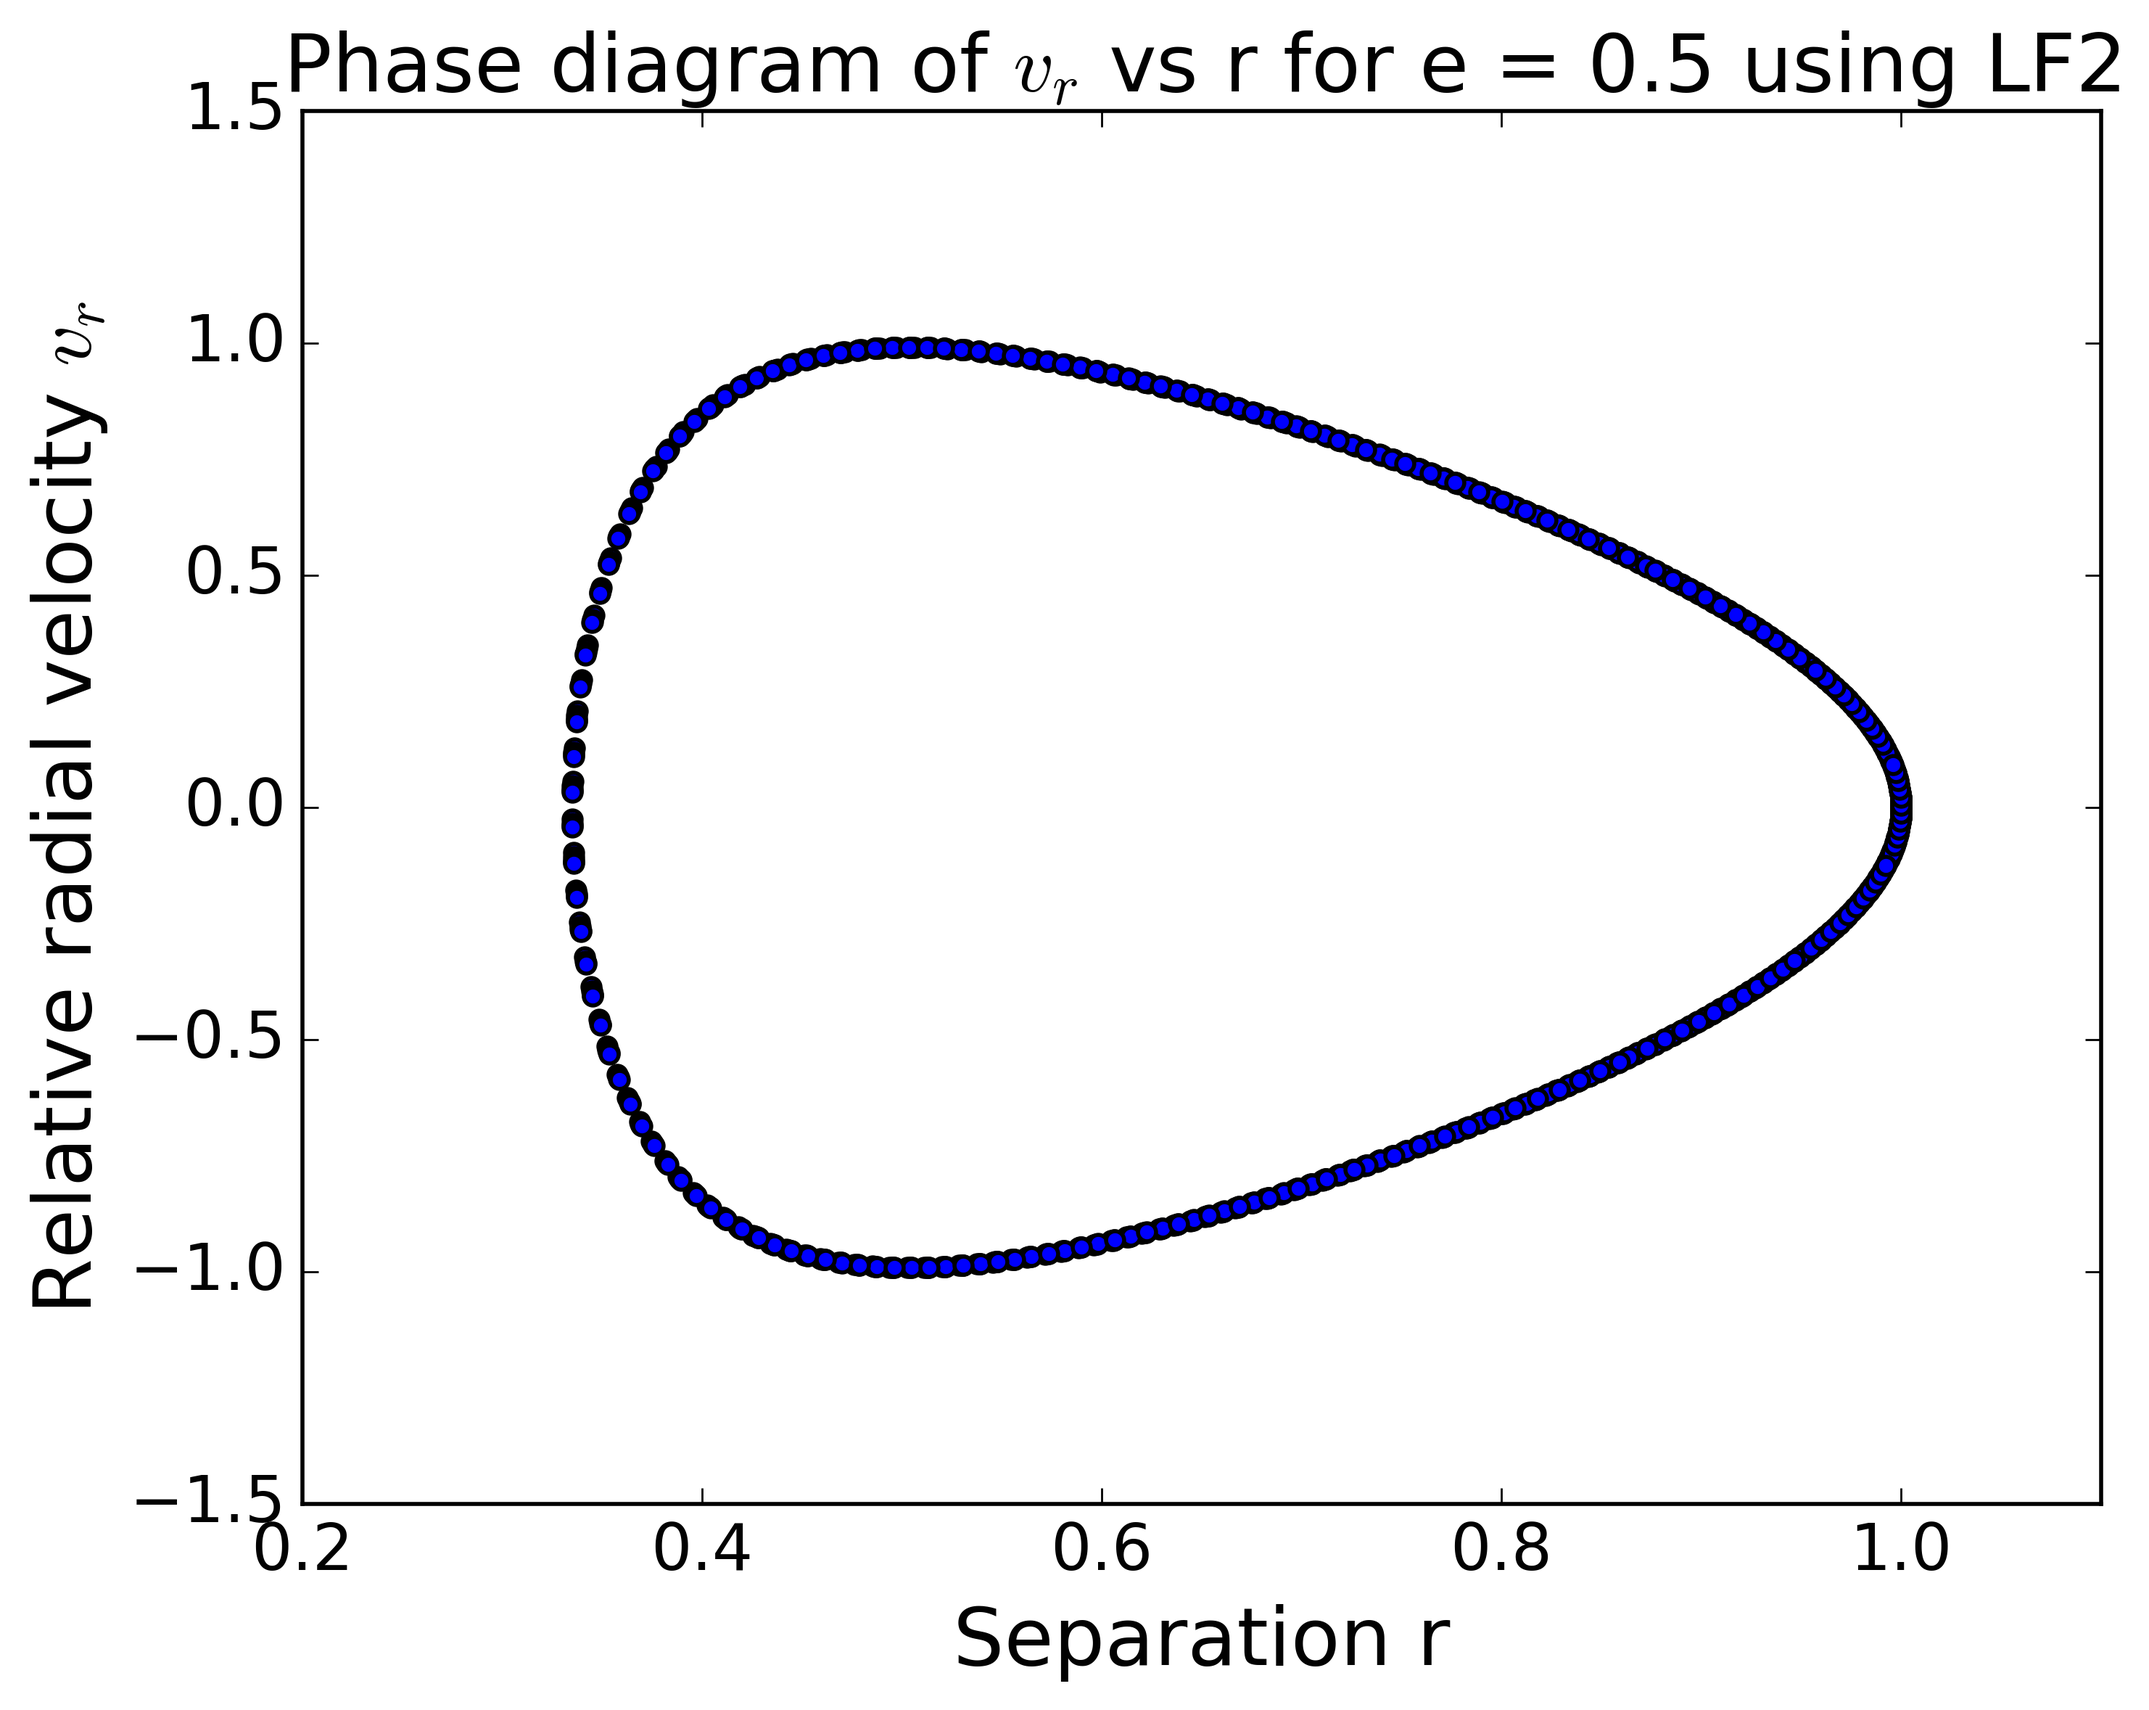
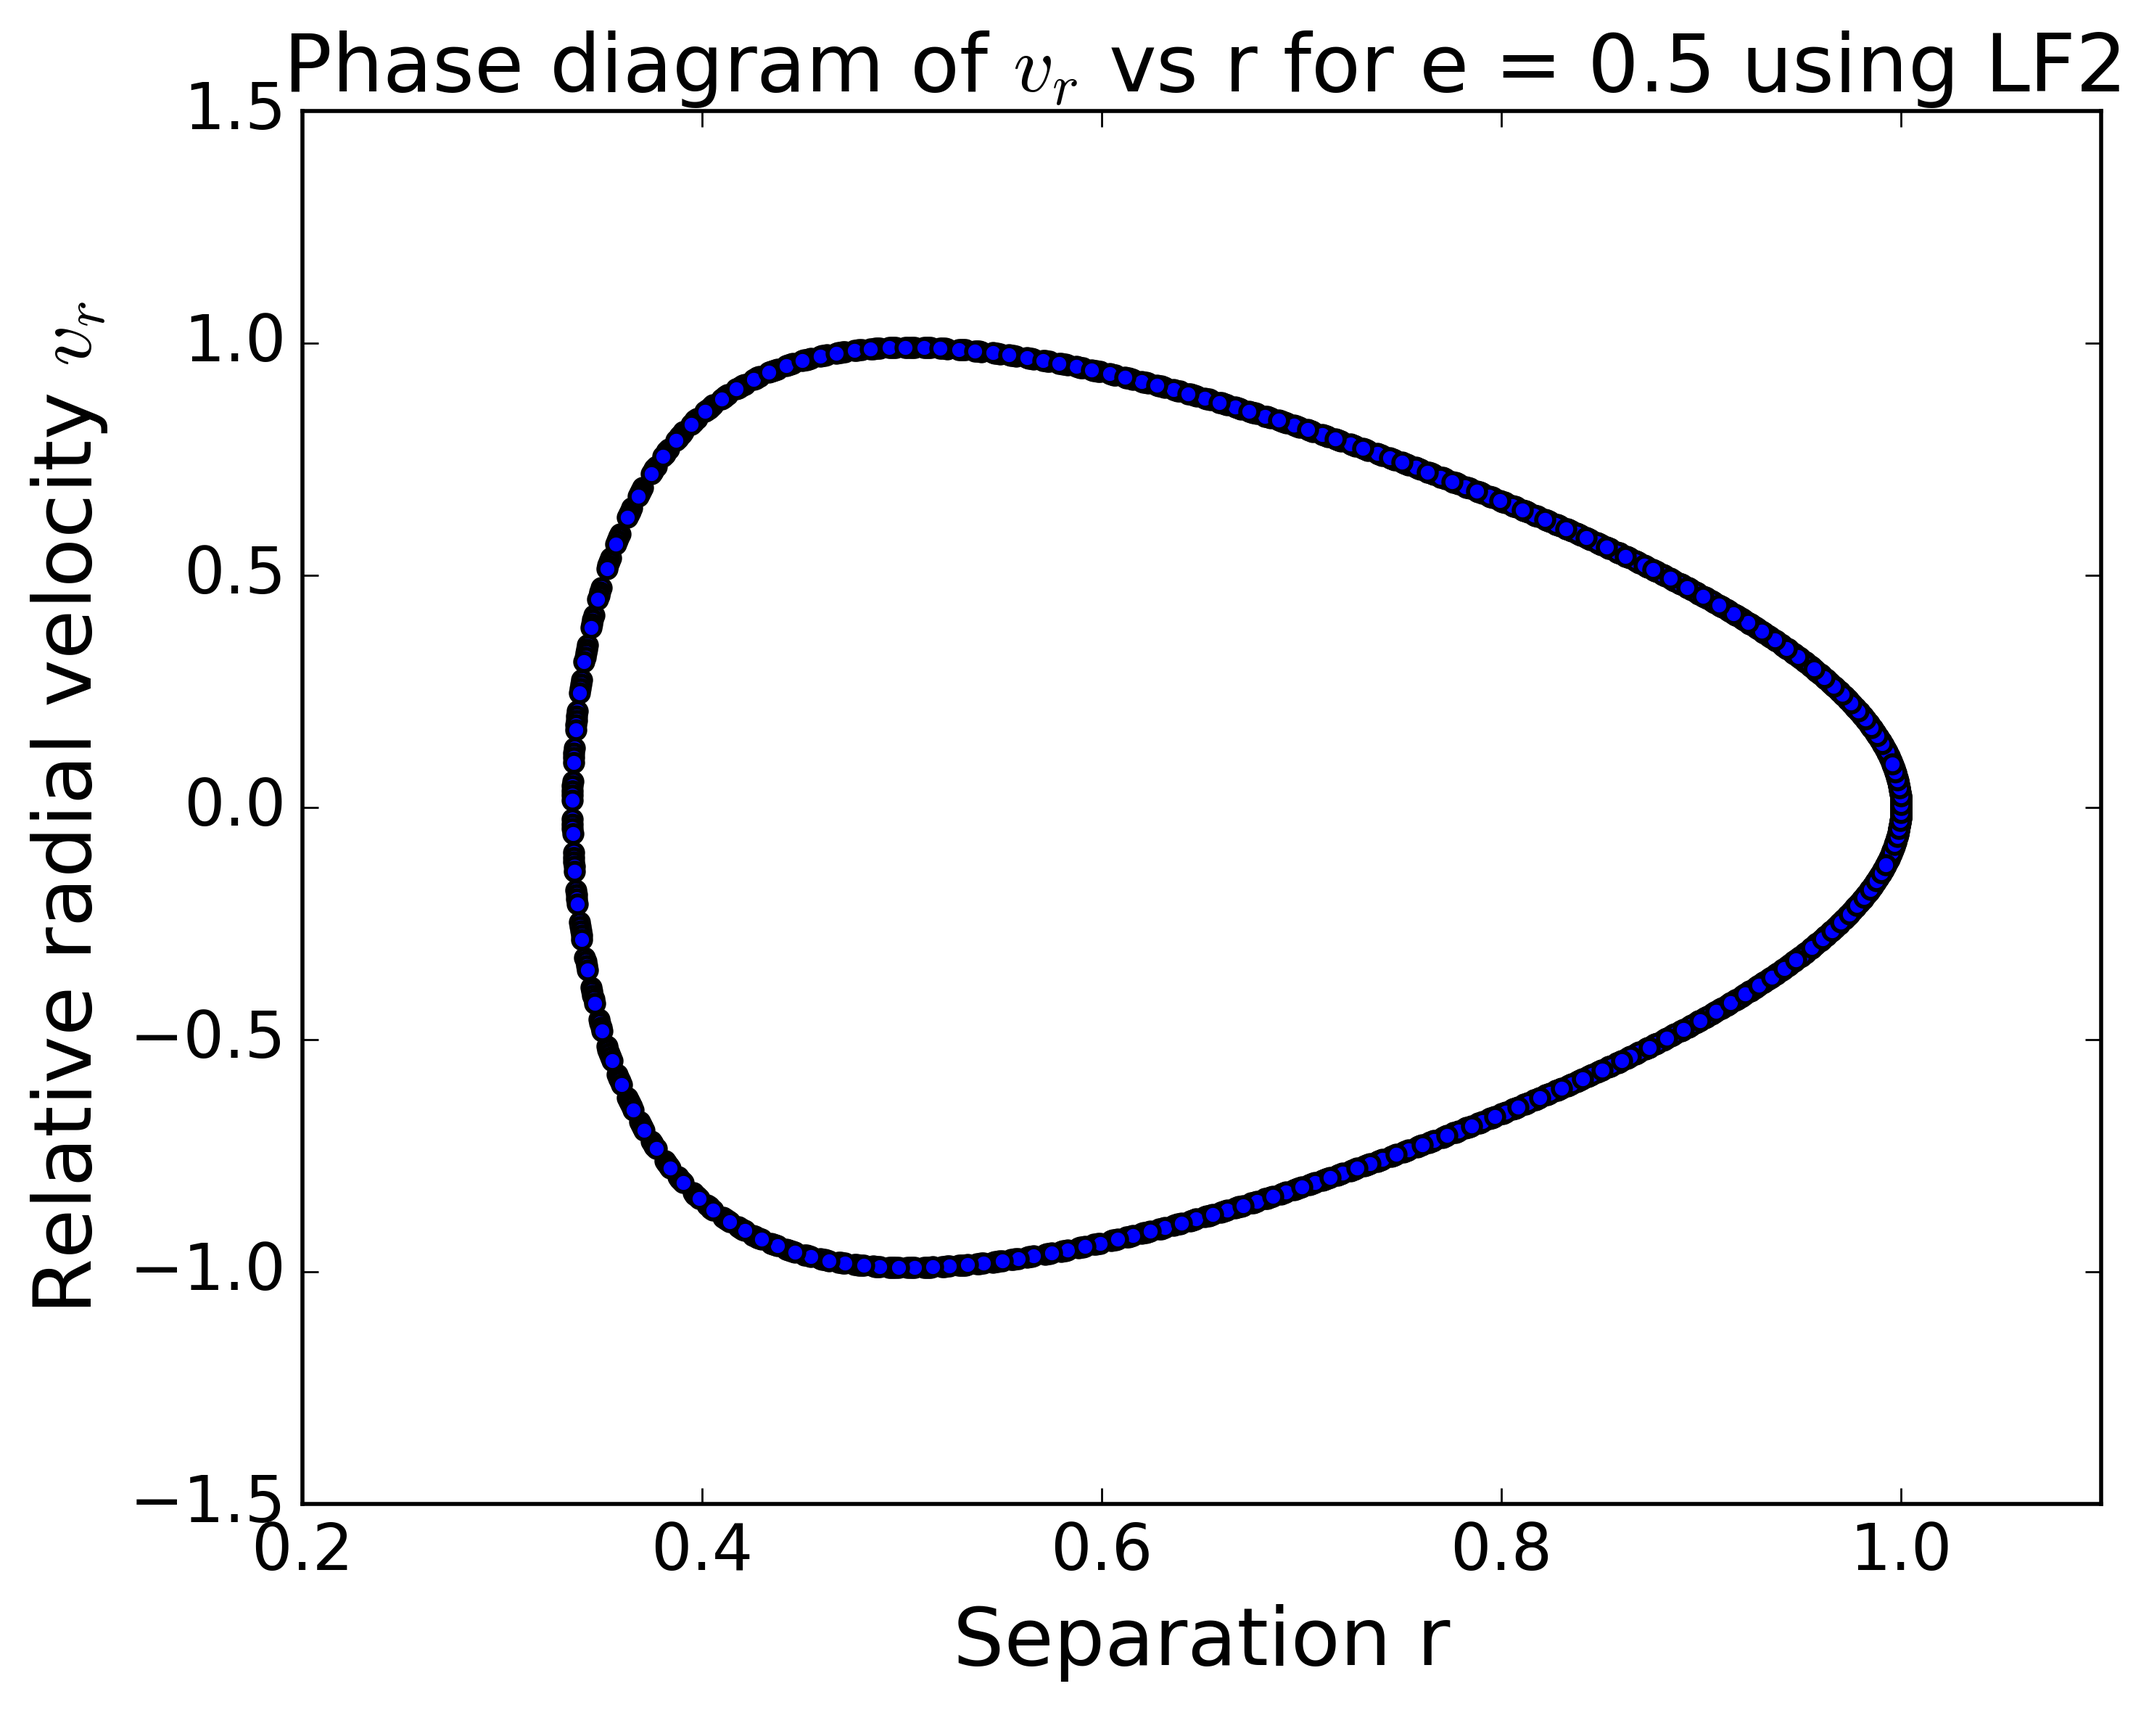
improve LF2 and RK4

diff --git a/pp-nbody/integ_RK4.h b/pp-nbody/integ_RK4.h
@@ -11,60 +11,56 @@ void integ_RK4(double mass[], double position[][DIM], double velocity[][DIM], do
 
     double k1_pos[N][DIM], k2_pos[N][DIM], k3_pos[N][DIM], k4_pos[N][DIM];
     double k1_vel[N][DIM], k2_vel[N][DIM], k3_vel[N][DIM], k4_vel[N][DIM];
-    double position2[N][DIM], position3[N][DIM], position4[N][DIM];
-    double velocity2[N][DIM], velocity3[N][DIM], velocity4[N][DIM];
-    double force2[N][DIM], force3[N][DIM], force4[N][DIM];
+    double pos_0[N][DIM], vel_0[N][DIM];
 
     for(i = 0; i < N; i++)
-    {
         for(k = 0; k < DIM; k++)
         {
+            pos_0[i][k] = position[i][k];
+            vel_0[i][k] = velocity[i][k];
+
             k1_pos[i][k] = step * velocity[i][k];
             k1_vel[i][k] = step * force[i][k] / mass[i];
 
-            position2[i][k] = position[i][k] + k1_pos[i][k] / 2;
-            velocity2[i][k] = velocity[i][k] + k1_vel[i][k] / 2;
+            position[i][k] += k1_pos[i][k] / 2;
+            velocity[i][k] += k1_vel[i][k] / 2;
         }
-    }
 
-    calc_force(mass, position2, force2, N, epsilon); //force at k1
+    calc_force(mass, position, force, N, epsilon); //force at k1
+
     for(i = 0; i < N; i++)
-    {
         for(k = 0; k < DIM; k++)
         {
-            k2_pos[i][k] = step * velocity2[i][k];
-            k2_vel[i][k] = step * force2[i][k] / mass[i];
+            k2_pos[i][k] = step * velocity[i][k];
+            k2_vel[i][k] = step * force[i][k] / mass[i];
 
-            position3[i][k] = position[i][k] + k2_pos[i][k] / 2;
-            velocity3[i][k] = velocity[i][k] + k2_vel[i][k] / 2;
+            position[i][k] = pos_0[i][k] + k2_pos[i][k] / 2;
+            velocity[i][k] = vel_0[i][k] + k2_vel[i][k] / 2;
         }
-    }
 
-    calc_force(mass, position3, force3, N, epsilon); //force at k2
+    calc_force(mass, position, force, N, epsilon); //force at k2
+
     for(i = 0; i < N; i++)
-    {
         for(k = 0; k < DIM; k++)
         {
-            k3_pos[i][k] = step * velocity3[i][k];
-            k3_vel[i][k] = step * force3[i][k]/mass[i];
+            k3_pos[i][k] = step * velocity[i][k];
+            k3_vel[i][k] = step * force[i][k] / mass[i];
 
-            position4[i][k] = position[i][k] + k3_pos[i][k];
-            velocity4[i][k] = velocity[i][k] + k3_vel[i][k];
+            position[i][k] = pos_0[i][k] + k3_pos[i][k];
+            velocity[i][k] = vel_0[i][k] + k3_vel[i][k];
         }
-    }
 
-    calc_force(mass, position4, force4, N, epsilon); //force at k3
+    calc_force(mass, position, force, N, epsilon); //force at k3
+
     for(i = 0; i < N; i++)
-    {
         for(k = 0; k < DIM; k++)
         {
-            k4_pos[i][k] = step * velocity4[i][k];
-            k4_vel[i][k] = step * force4[i][k]/mass[i];
+            k4_pos[i][k] = step * velocity[i][k];
+            k4_vel[i][k] = step * force[i][k] / mass[i];
 
-            position[i][k] +=  k1_pos[i][k] / 6 + k2_pos[i][k] / 3 + k3_pos[i][k] / 3 + k4_pos[i][k] / 6;
-            velocity[i][k] +=  k1_vel[i][k] / 6 + k2_vel[i][k] / 3 + k3_vel[i][k] / 3 + k4_vel[i][k] / 6;
+            position[i][k] = pos_0[i][k] + k1_pos[i][k] / 6 + k2_pos[i][k] / 3 + k3_pos[i][k] / 3 + k4_pos[i][k] / 6;
+            velocity[i][k] = vel_0[i][k] + k1_vel[i][k] / 6 + k2_vel[i][k] / 3 + k3_vel[i][k] / 3 + k4_vel[i][k] / 6;
         }
-    }
 }
 
 #endif

diff --git a/pp-nbody/p1_plots.py b/pp-nbody/p1_plots.py
@@ -41,6 +41,9 @@ energy = 0.5 * v1**2 + 0.5 * v2**2 - 1/r
 E0 = -0.5 * (1 + e)
 frac_energy = (energy - E0) / abs(E0)
 
+#create directory for plots
+if not os.path.exists('./plots_p1/'):
+    os.makedirs('./plots_p1/')
 
 #Orbit Plot
 plt.figure()
@@ -51,7 +54,7 @@ plt.ylabel('y', fontsize = 20)
 plt.xticks(fontsize=16)
 plt.yticks(fontsize=16)
 plt.title('Orbit diagram (x vs. y) for e = '+str(e)+' using '+method, fontsize = 20)
-plt.savefig('p1_plots/'+method+'_e'+str(e)+'_xy.png', dpi=400, bbox_inches='tight')
+plt.savefig('plots_p1/'+method+'_e'+str(e)+'_xy.png', dpi=400, bbox_inches='tight')
 plt.show()
 
 #phase plot 
@@ -62,7 +65,7 @@ plt.ylabel(r'Relative radial velocity $v_r$', fontsize = 20)
 plt.xticks(fontsize=16)
 plt.yticks(fontsize=16)
 plt.title(r'Phase diagram of $v_r$ vs r for e = '+str(e)+' using '+method, fontsize = 20)
-plt.savefig('p1_plots/'+method+'_e'+str(e)+'_rv.png', dpi=400, bbox_inches='tight')
+plt.savefig('plots_p1/'+method+'_e'+str(e)+'_rv.png', dpi=400, bbox_inches='tight')
 plt.show()
 
 #energy plot 
@@ -73,5 +76,5 @@ plt.ylabel('Fractional change in total energy', fontsize = 20)
 plt.xticks(fontsize=16)
 plt.yticks(fontsize=16)
 plt.title('Fractional change in energy vs t for e = '+str(e)+' using '+method, fontsize = 20, y=1.04)
-plt.savefig('p1_plots/'+method+'_e'+str(e)+'_energy.png', dpi=400, bbox_inches='tight')
+plt.savefig('plots_p1/'+method+'_e'+str(e)+'_energy.png', dpi=400, bbox_inches='tight')
 plt.show()

diff --git a/pp-nbody/main.c b/pp-nbody/main.c
@@ -1,3 +1,15 @@
+/*********************************************************
+ASTR615 - HW#4 Problem #2
+Particle-Particle N-body code
+
+Authors: Mohammed Khalil and ChongChong He
+
+Date: 11/18/17
+
+Filename: main.c
+*********************************************************/
+
+
 #include <stdio.h>
 #include <stdlib.h>
 #include <math.h>
@@ -19,14 +31,14 @@ int DIM = 3;  //number of dimensions
 
 int main(int argc, char *argv[])
 {
-    char *file_name = "3body.txt";;   //name of initial conditions file
+    char *file_name = "init_2body0.5.txt";;   //name of initial conditions file
     char *outputdir = "./data/";  // dir of output files
-    int N = 3;   //number of particles
+    int N = 2;   //number of particles
     double epsilon = 0.0;  //softening parameter
-    double t_step = 0.01;  //time step
-    int n_steps = 10000;   // number of steps
-    int op_freq = 10;    // output frequency
-    char *integrator = "LF2";  //ODE integration method
+    double t_step = 0.05;  //time step
+    int n_steps = 4836;   // number of steps
+    int op_freq = 4;    // output frequency
+    char *integrator = "RK4";  //ODE integration method
     int i; //loop variable
 
     if ((argc == 8) || (argc == 9)) {

diff --git a/pp-nbody/integ_LF2.h b/pp-nbody/integ_LF2.h
@@ -9,14 +9,13 @@ void integ_LF2(double mass[], double position[][DIM], double velocity[][DIM], do
 
     int i, k; //loop vars
 
-    //calculate position after half a step
-    double pos_12[N][DIM];
+    //advance position by half a step
     for(i = 0; i < N; i++)
         for(k = 0; k < DIM; k++)
-            pos_12[i][k] = position[i][k] + 0.5 * step * velocity[i][k];
+            position[i][k] += 0.5 * step * velocity[i][k];
 
-    //force at pos_12
-    calc_force(mass, pos_12, force, N, epsilon);
+    //force after half a step
+    calc_force(mass, position, force, N, epsilon);
 
     //update velocity and position
     for(i = 0; i < N; i++)
@@ -24,7 +23,7 @@ void integ_LF2(double mass[], double position[][DIM], double velocity[][DIM], do
         for(k = 0; k < DIM; k++)
         {
             velocity[i][k] += step * force[i][k] / mass[i];
-            position[i][k] = pos_12[i][k] + 0.5 * step * velocity[i][k];
+            position[i][k] += 0.5 * step * velocity[i][k];
         }
     }
 }
